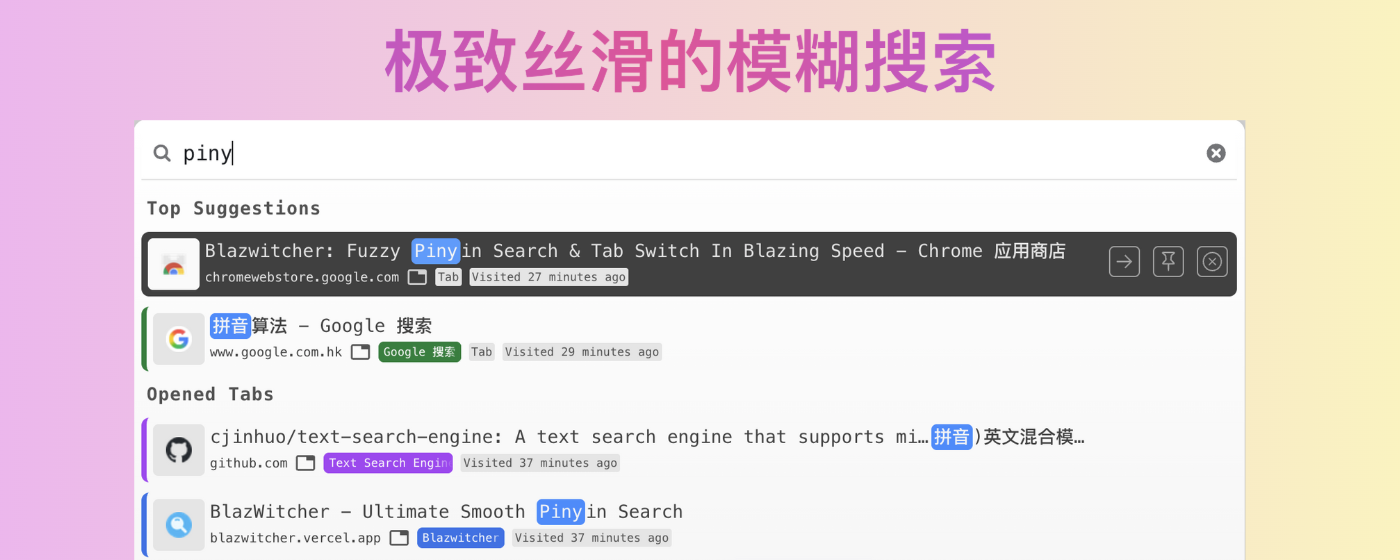
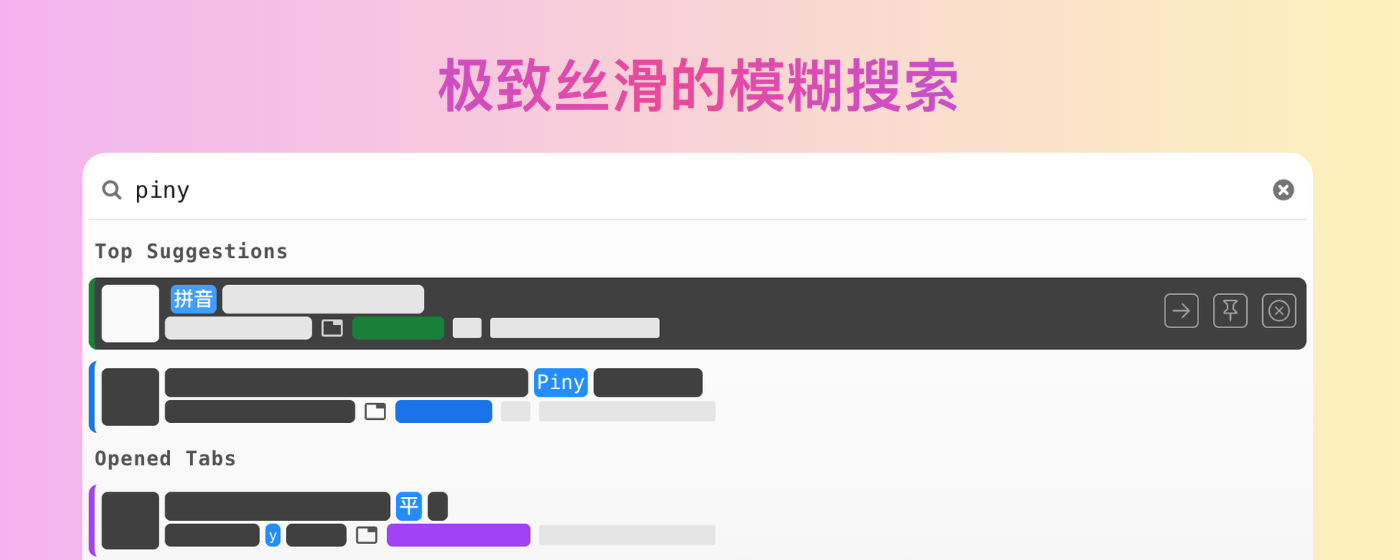
chore(blazwitcher-extension): :hammer: update picture for v1.0

diff --git a/packages/blazwitcher-extension/sidepanel/list.tsx b/packages/blazwitcher-extension/sidepanel/list.tsx
@@ -43,10 +43,20 @@ const ListItemWrapper = styled(ListComponent.Item)`
   }
 	 .${NORMAL_TEXT_CLASS} {
     color: var(--color-neutral-3);
+
+		/* 截图预览 */
+		/* border-radius: 4px;
+		background-color: var(--color-neutral-3); */
+
   }
   .${HIGHLIGHT_TEXT_CLASS} {
-    color: var(--highlight-text);
+		color: var(--highlight-text);
     background-color: var(--highlight-bg);
+
+		/* 截图预览 */
+		/* margin: 0 4px;
+    color: transparent;
+		border-radius: 4px; */
   }
   &:hover {
     background-color: var(--color-neutral-4);
@@ -76,9 +86,15 @@ const ListItemWrapper = styled(ListComponent.Item)`
     }
     .${NORMAL_TEXT_CLASS} {
       color: var(--color-neutral-8);
+
+			/* 截图预览 */
+			/* background-color: var(--color-neutral-8); */
     }
     .${HIGHLIGHT_TEXT_CLASS} {
       background-color: var(--highlight-selected-bg);
+
+			/* 截图预览 */
+			/* color: transparent; */
     }
     .${HOST_CLASS} {
       color: var(--color-neutral-6);

diff --git a/packages/blazwitcher-extension/sidepanel/list-item.tsx b/packages/blazwitcher-extension/sidepanel/list-item.tsx
@@ -54,6 +54,9 @@ const TabGroup = styled.div<ContentContainerProps>`
 	overflow: hidden;
 	position: relative;
 
+		/* 截图预览 */
+	/* color: transparent; */
+
 	&::after {
 		content: '';
 		position: absolute;
@@ -87,6 +90,9 @@ const Tag = styled.div`
 	background-color: var(--color-neutral-8);
 	color: var(--color-neutral-4);
 	text-wrap: nowrap;
+
+	/* 截图预览 */
+	/* color: transparent; */
 `
 
 const TabLabel = ({ data }: { data: TabItemType }) => {

diff --git a/packages/blazwitcher-extension/shared/common-styles.tsx b/packages/blazwitcher-extension/shared/common-styles.tsx
@@ -27,6 +27,9 @@ export const ImageContainer = styled.div`
   align-items: center;
   justify-content: center;
   background-color: var(--color-neutral-8);
+
+  /* 截图预览 */
+  /* background-color: var(--color-neutral-3); */
 `
 
 export const SecondaryContainer = styled.div`

diff --git a/packages/blazwitcher-extension/sidepanel/skin.css b/packages/blazwitcher-extension/sidepanel/skin.css
@@ -52,6 +52,8 @@ html {
 /* scrollbar */
 ::-webkit-scrollbar {
   width: 6px;
+  /* 截图预览 */
+  /* width: 0px; */
 }
 
 ::-webkit-scrollbar-track {
